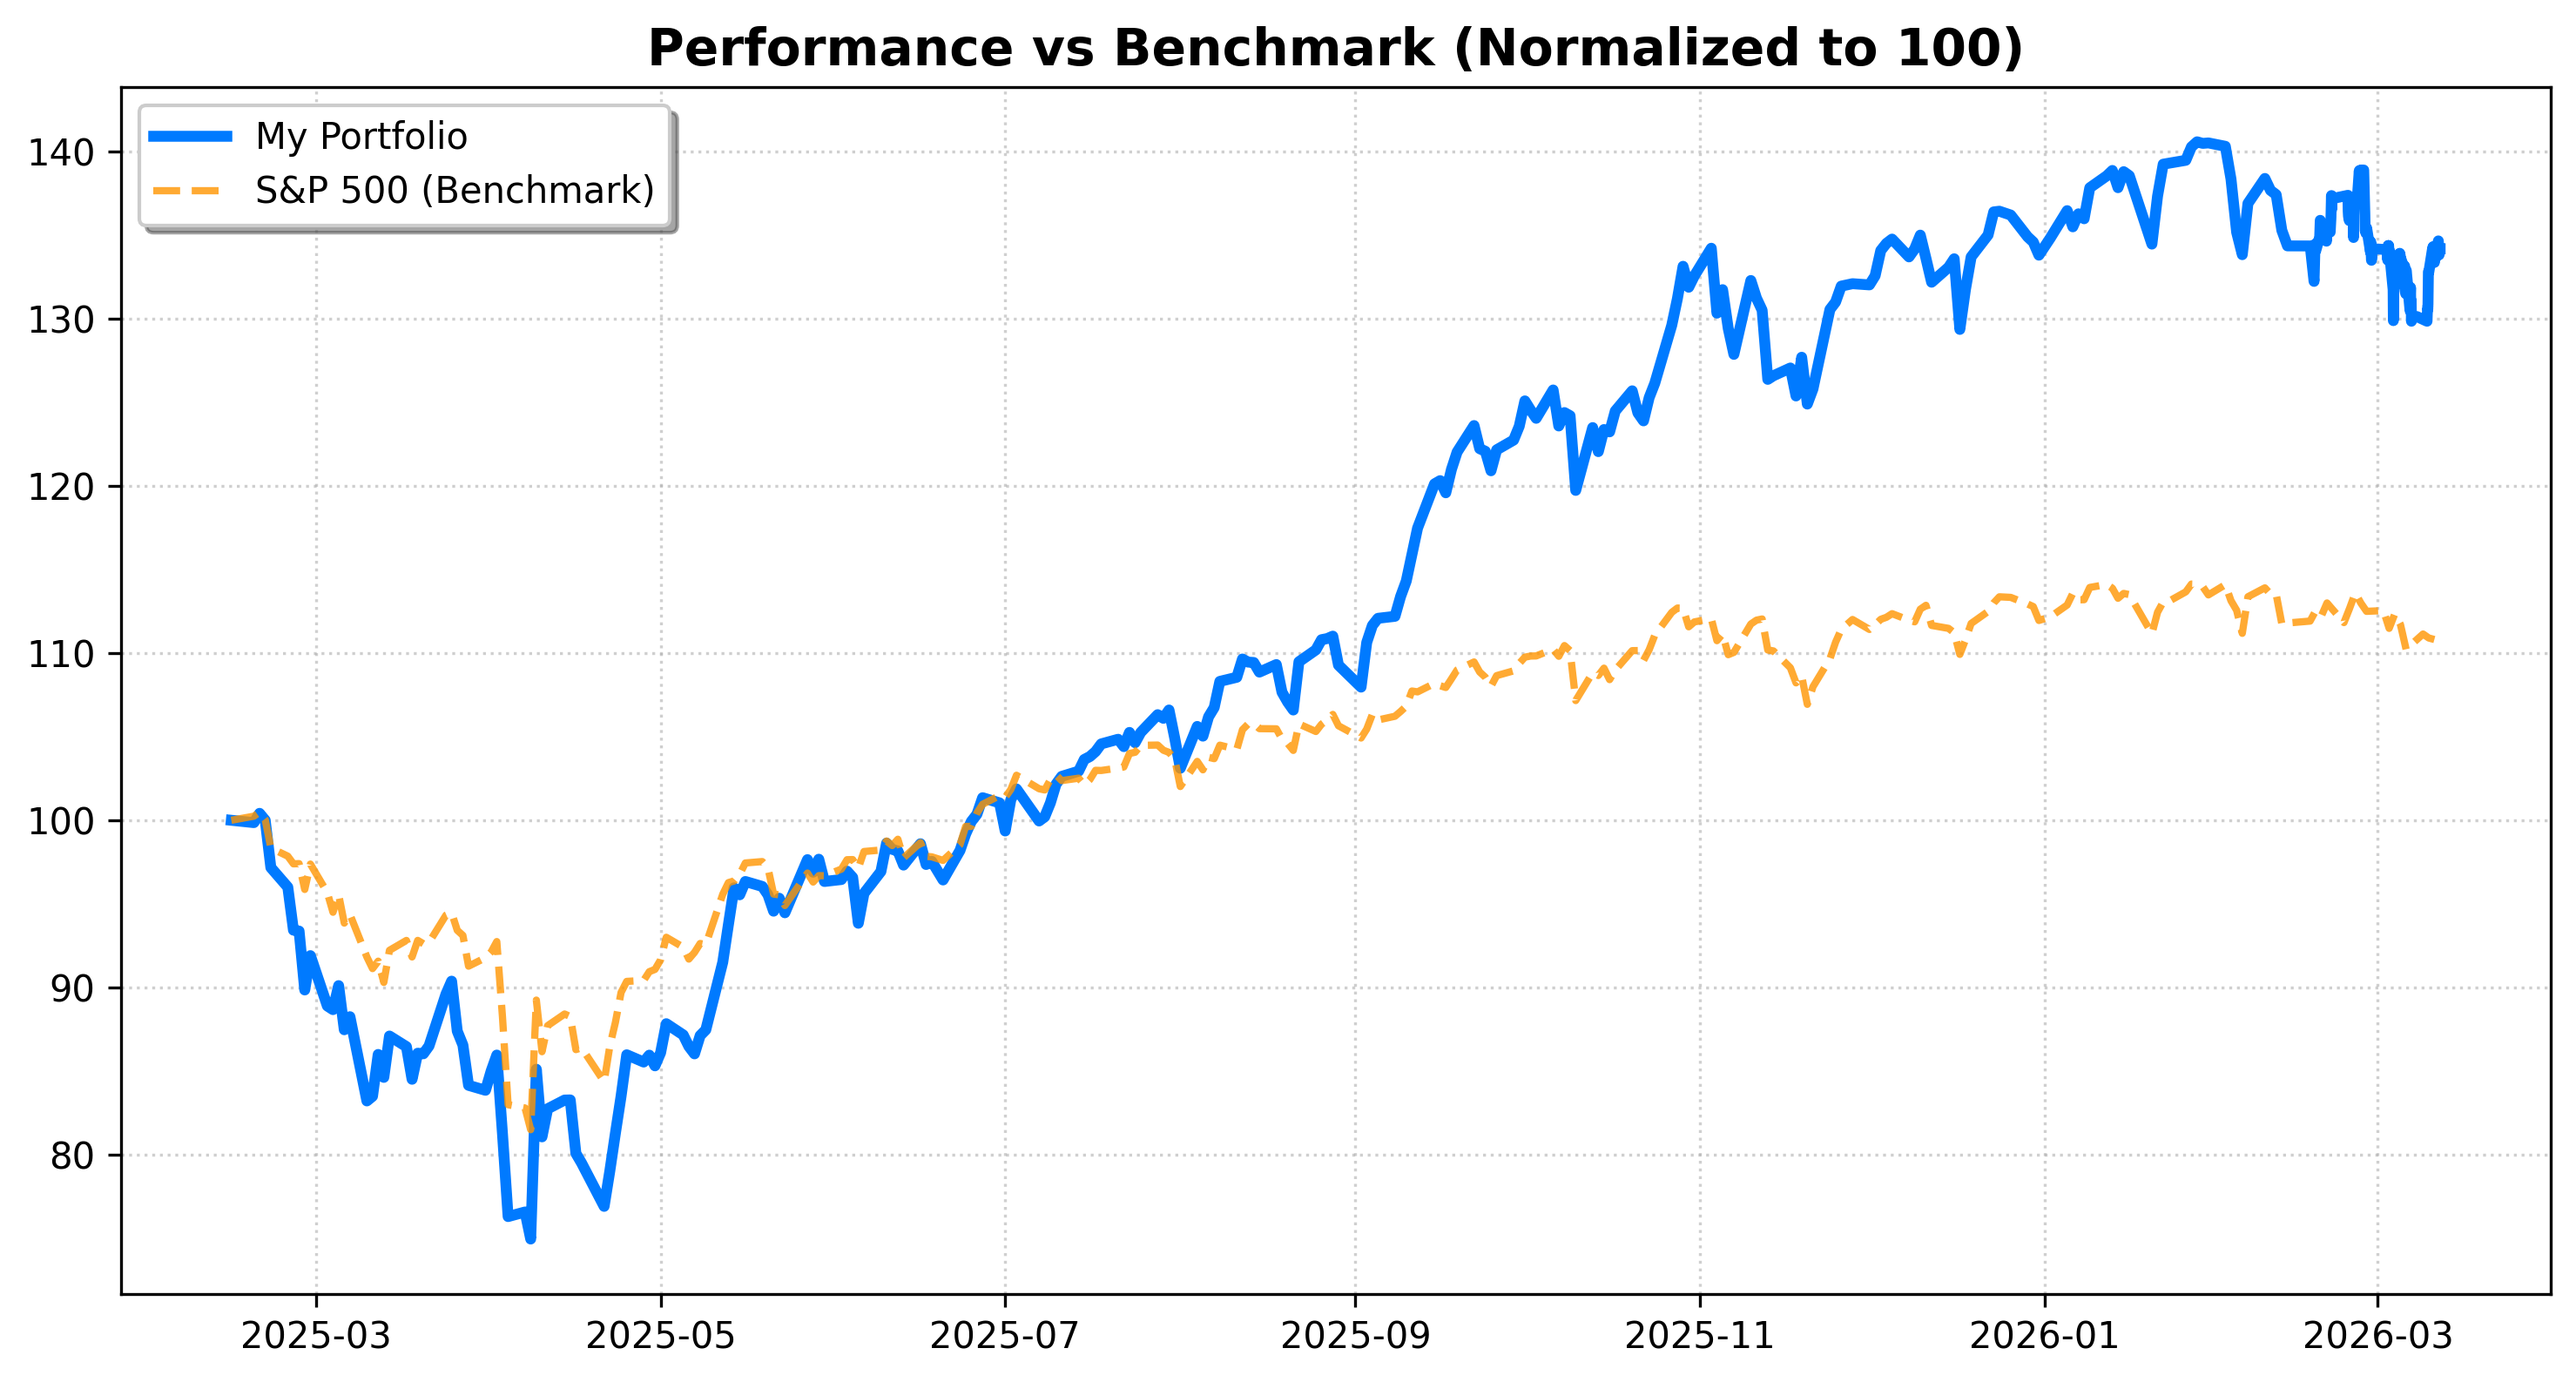
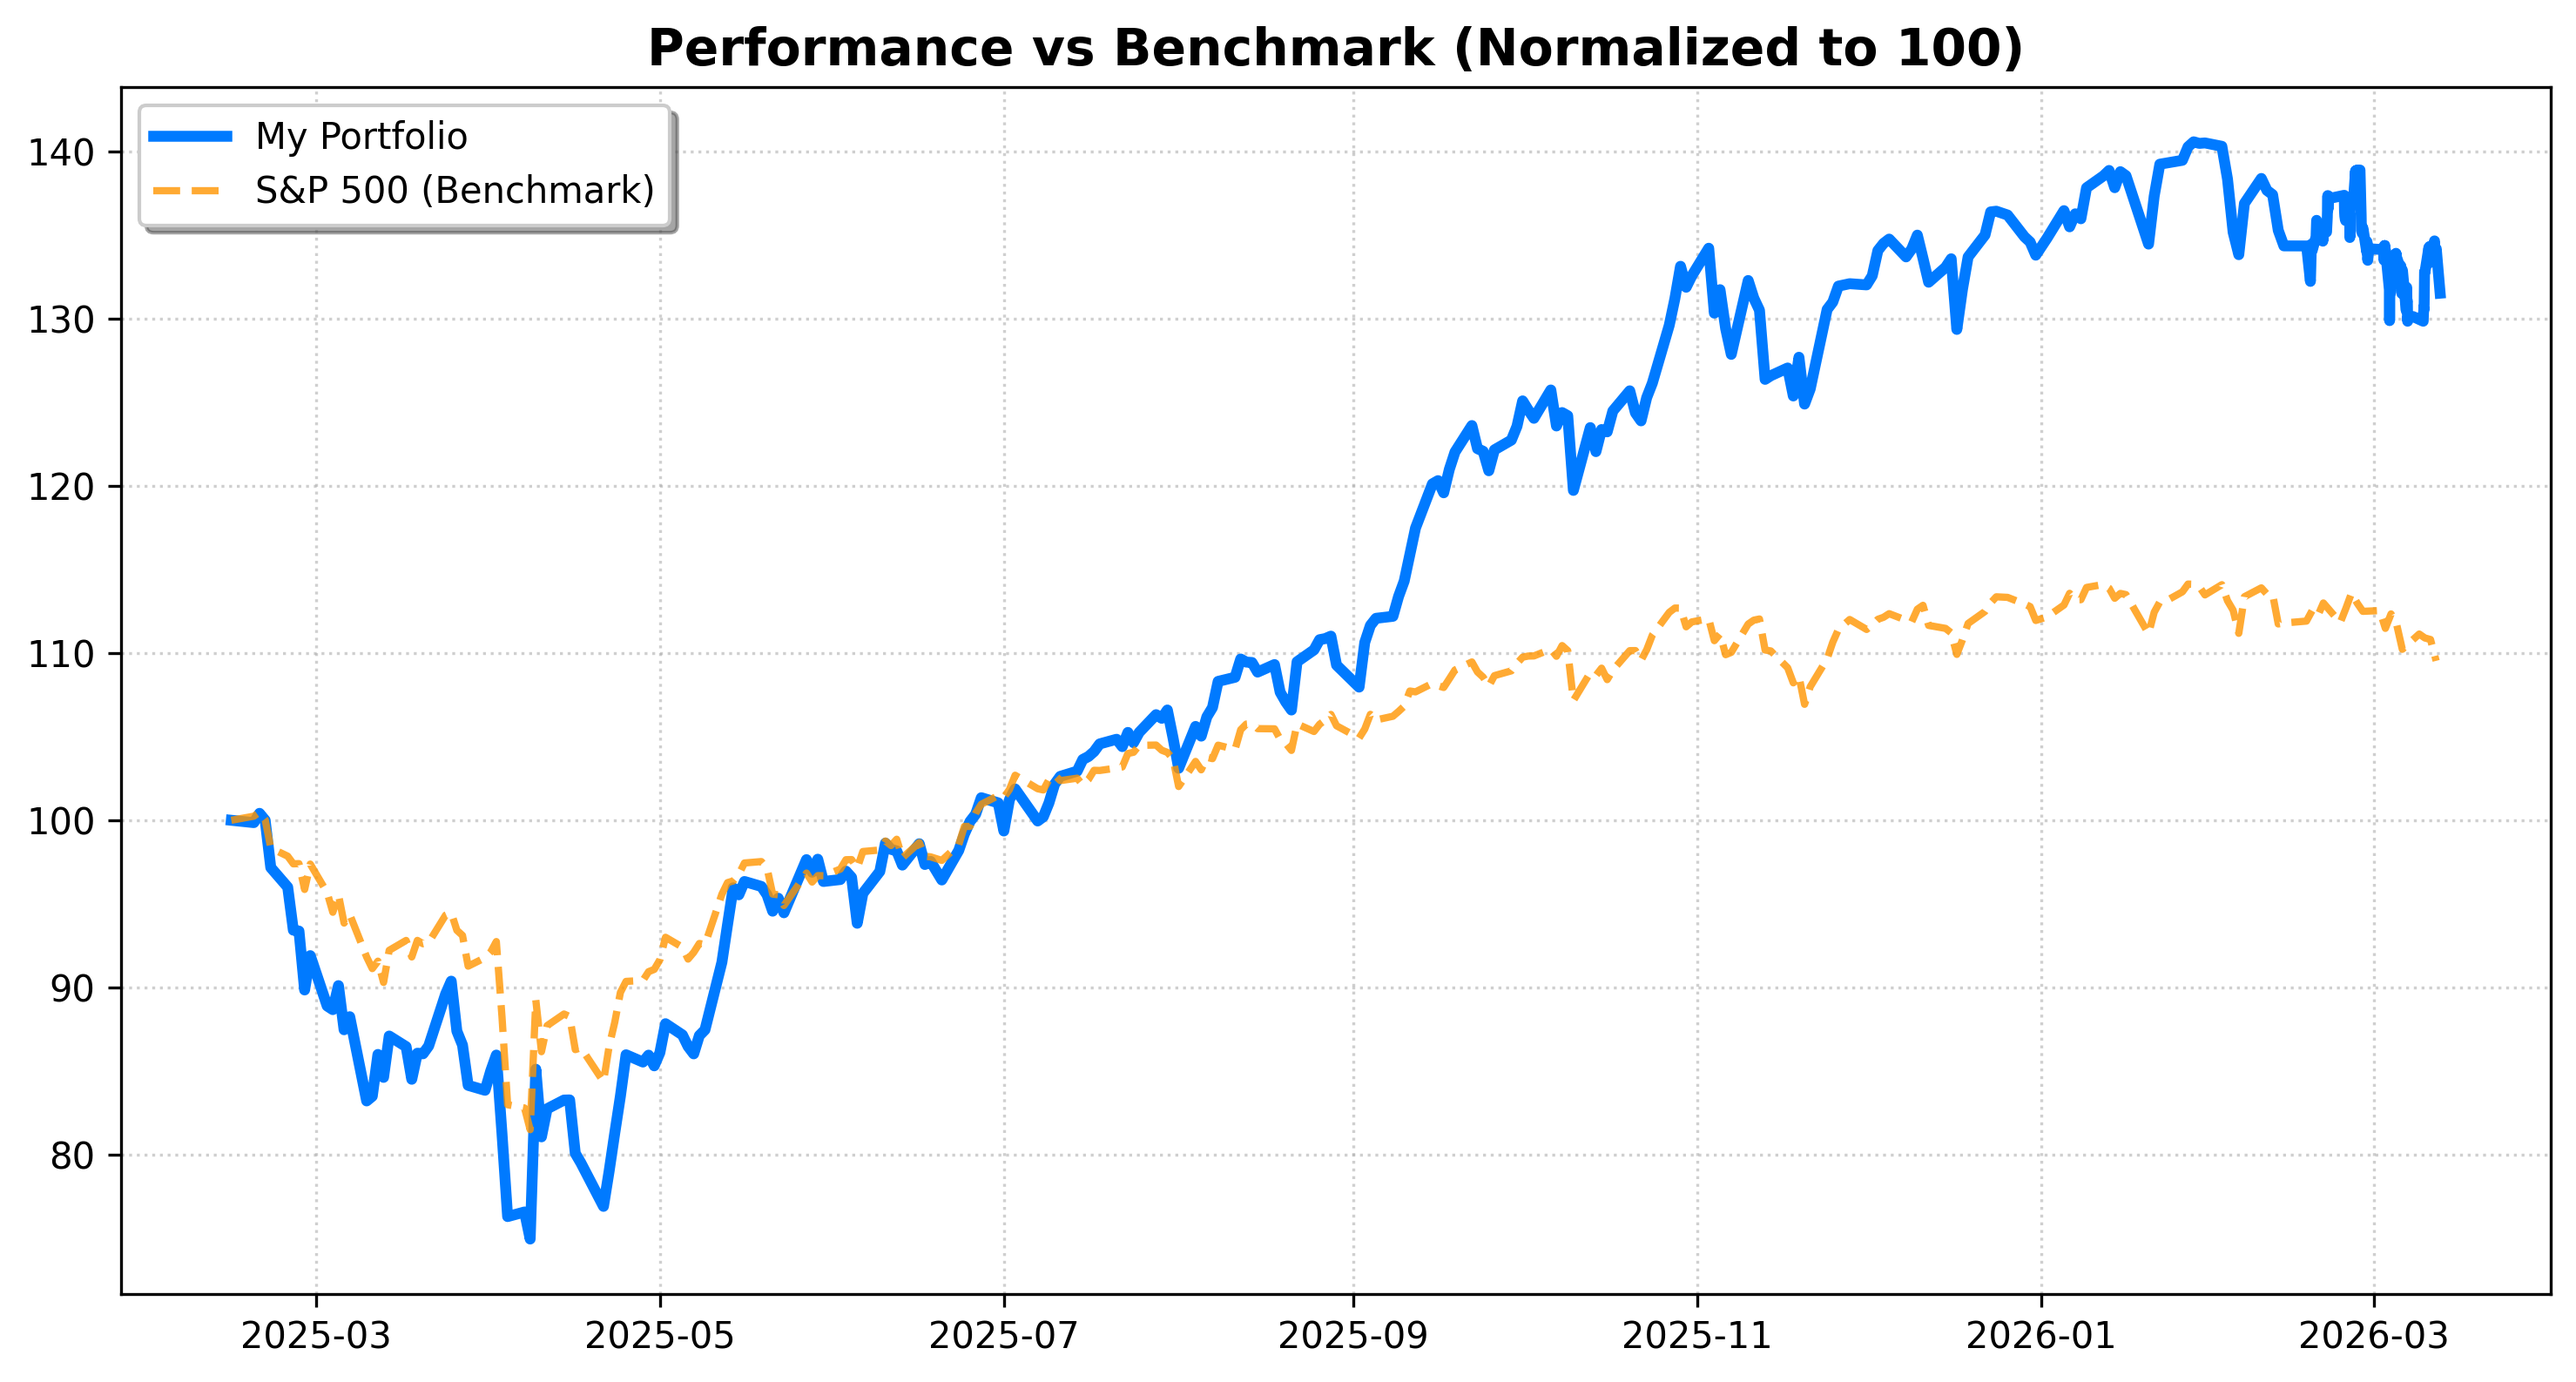
System Run: Analytics & Archive Update [skip ci]

diff --git a/README.md b/README.md
@@ -1,23 +1,23 @@
 # 📊 Portfolio Dashboard | מעקב תיק השקעות
-**Last Update:** 12/03/2026 00:32 | **USD/ILS:** ₪3.123
+**Last Update:** 12/03/2026 16:56 | **USD/ILS:** ₪3.128
 
 ## 💰 Portfolio Summary | סיכום התיק
 | Metric | Value | נתון |
 | :--- | :--- | :--- |
-| **Current Value** | `₪166,873` | **שווי נוכחי** |
-| **Total Invested** | `₪131,177` | **סך השקעה** |
-| **Total Profit/Loss** | `+27.21%` (₪35,696) | **רווח/הפסד כולל** |
-| **Daily Change** | `+0.60%` | **שינוי יומי** |
+| **Current Value** | `₪163,803` | **שווי נוכחי** |
+| **Total Invested** | `₪131,370` | **סך השקעה** |
+| **Total Profit/Loss** | `+24.69%` (₪32,433) | **רווח/הפסד כולל** |
+| **Daily Change** | `-2.32%` | **שינוי יומי** |
 
 ## 📜 Holdings | פירוט החזקות
 | Ticker | Shares | Avg. Cost | Current Price | P&L % | P&L ILS |
 | :--- | :--- | :--- | :--- | :--- | :--- |
-| GOOGL | 45 | $181.15 | $308.71 | 🟢 +70.42% | ₪17,928 |
-| ASML | 4 | $934.51 | $1,386.22 | 🟢 +48.34% | ₪5,643 |
-| XOM | 2 | $126.08 | $151.54 | 🟢 +20.19% | ₪159 |
-| NVDA | 57 | $148.62 | $186.01 | 🟢 +25.16% | ₪6,656 |
-| TSLA | 20 | $436.45 | $407.84 | 🔴 -6.56% | ₪-1,787 |
-| VOO | 24 | $527.38 | $622.05 | 🟢 +17.95% | ₪7,096 |
+| GOOGL | 45 | $181.15 | $302.52 | 🟢 +67.00% | ₪17,083 |
+| ASML | 4 | $934.51 | $1,343.70 | 🟢 +43.79% | ₪5,120 |
+| XOM | 2 | $126.08 | $153.02 | 🟢 +21.37% | ₪169 |
+| NVDA | 57 | $148.62 | $182.53 | 🟢 +22.82% | ₪6,046 |
+| TSLA | 20 | $436.45 | $395.61 | 🔴 -9.36% | ₪-2,555 |
+| VOO | 24 | $527.38 | $614.90 | 🟢 +16.60% | ₪6,570 |
 
 ## 📈 Charts | גרפים
 ![Performance](./data_hub/portfolio_performance.png)
